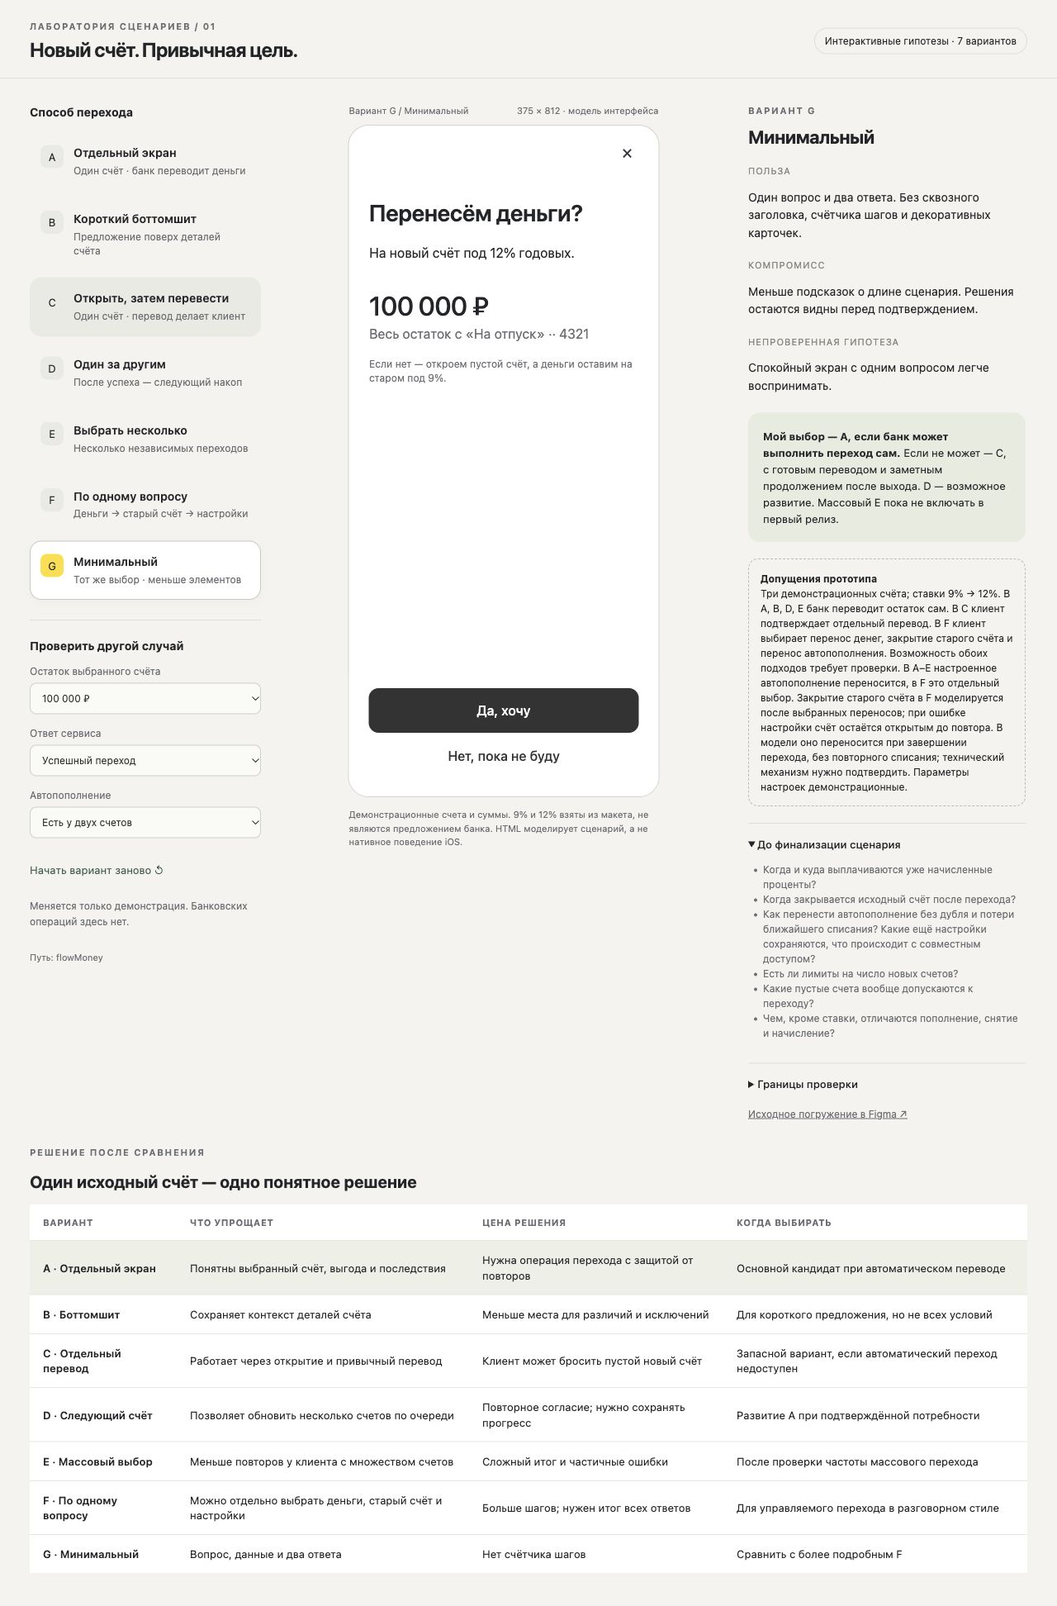
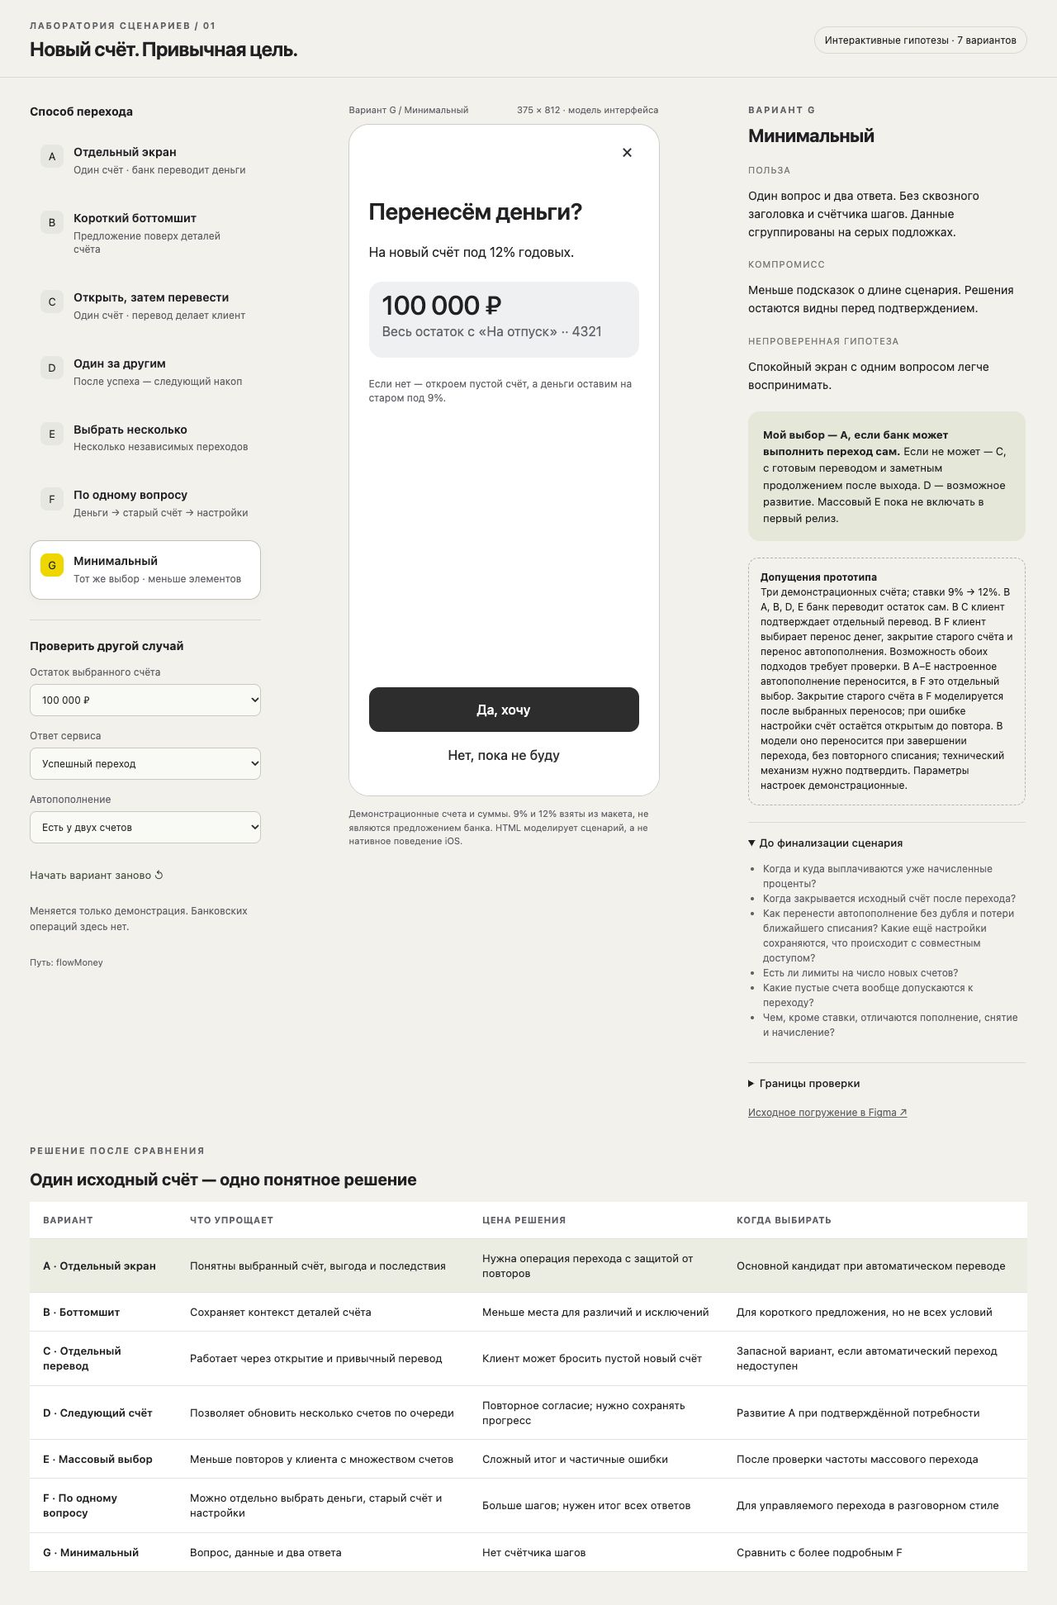
Вернуть серые подложки в минимальный вариант G

diff --git a/prototypes/account-migration/index.html b/prototypes/account-migration/index.html
@@ -8,7 +8,7 @@
 @media(max-width:1100px){.layout{gap:24px;grid-template-columns:240px 1fr}.review{grid-column:1/-1;display:grid;grid-template-columns:1fr 1fr;gap:24px}.review .review-main{grid-column:auto}header.lab{padding:20px 24px}.layout{padding:24px}.comparison{padding:0 24px}}
 @media(max-width:680px){header.lab{padding:18px 16px}header h1{font-size:19px}.badge{display:none}.layout{display:flex;flex-direction:column;padding:20px 0;gap:22px}.sidebar{padding:0 16px}.variants{grid-template-columns:repeat(7,1fr);gap:6px}.variant{padding:9px;display:block}.variant .letter{margin:0 auto}.variant strong,.variant small{display:none}.controls{margin-top:12px;padding-top:10px;display:grid;grid-template-columns:1fr 1fr;gap:12px}.controls h2,.controls .note{display:none}.control{margin:0}.controls>.text-button{grid-column:1/-1;padding:0}.review{display:block;padding:0 20px}.phone{max-width:100vw;border-radius:24px;width:min(375px,100vw)}.stage-label,.preview-bottom{width:calc(100% - 32px);max-width:375px}.comparison{padding:0 16px}.stage{gap:0}.trail{display:none}}
 .conversation .card{border-radius:16px;padding:16px}.conversation h1{font-size:30px;line-height:34px}.conversation p{font-size:17px;line-height:24px}.conversation .fine{font-size:13px!important;line-height:18px!important}.conversation .row b{text-align:left;max-width:100%}.conversation .small-link{padding-bottom:0}.conversation-step{font-size:13px;color:var(--muted);margin:6px 0 18px}.conversation-summary{margin:12px 0}.conversation-summary h2{margin:0 0 8px;font-size:17px}.conversation-summary p{margin:0;font-size:15px;line-height:21px}
-.phone.minimal{border-radius:24px;box-shadow:0 0 0 1px #d3d4d1}.minimal .nav{height:64px;padding:12px 16px}.minimal .nav button{width:44px;padding:0;font-size:22px}.minimal .nav>span{display:none}.minimal .scroll{padding:24px 24px 28px}.minimal .scroll h1{font-size:28px;line-height:34px;letter-spacing:-.5px;font-weight:600;margin:0 0 20px}.minimal .scroll p{font-size:16px;line-height:24px}.minimal .minimal-amount{font-size:32px!important;font-weight:500;letter-spacing:-.7px;margin:40px 0 6px}.minimal .minimal-data{margin:32px 0}.minimal .minimal-data p{margin:4px 0}.minimal .footer{border:0;padding:16px 24px 24px}.minimal .primary{border-radius:12px;font-weight:500}.minimal .secondary-button{font-size:16px}.minimal .conversation-summary{background:none;border-radius:0;border-bottom:1px solid #e8e8e8;padding:18px 0;margin:0}.minimal .conversation-summary h2{font-size:14px;font-weight:400;color:var(--muted);margin:0 0 6px}.minimal .conversation-summary p{font-size:16px;line-height:23px}.minimal .small-link{font-size:14px;padding-top:8px}.minimal .done-icon,.minimal .spinner{display:none}.minimal .processing{padding-top:80px}
+.phone.minimal{border-radius:24px;box-shadow:0 0 0 1px #d3d4d1}.minimal .nav{height:64px;padding:12px 16px}.minimal .nav button{width:44px;padding:0;font-size:22px}.minimal .nav>span{display:none}.minimal .scroll{padding:24px 24px 28px}.minimal .scroll h1{font-size:28px;line-height:34px;letter-spacing:-.5px;font-weight:600;margin:0 0 20px}.minimal .scroll p{font-size:16px;line-height:24px}.minimal .minimal-amount{font-size:32px!important;font-weight:500;letter-spacing:-.7px;margin:40px 0 6px}.minimal .minimal-data{margin:24px 0;padding:16px;border-radius:16px}.minimal .minimal-data .minimal-amount{margin:0 0 8px}.minimal .minimal-data p{margin:4px 0}.minimal .footer{border:0;padding:16px 24px 24px}.minimal .primary{border-radius:12px;font-weight:500}.minimal .secondary-button{font-size:16px}.minimal .conversation-summary{background:var(--surface);border-radius:16px;border:0;padding:16px;margin:12px 0}.minimal .conversation-summary h2{font-size:14px;font-weight:400;color:var(--muted);margin:0 0 6px}.minimal .conversation-summary p{font-size:16px;line-height:23px}.minimal .small-link{font-size:14px;padding-top:8px}.minimal .done-icon,.minimal .spinner{display:none}.minimal .processing{padding-top:80px}
 </style>
 <header class="lab"><div><div class="eyebrow">Лаборатория сценариев / 01</div><h1>Новый счёт. Привычная цель.</h1></div><span class="badge">Интерактивные гипотезы · 7 вариантов</span></header>
 <main class="layout">
@@ -17,7 +17,7 @@
 <aside class="review" id="review"></aside>
 </main>
 <section class="comparison"><div class="eyebrow">Решение после сравнения</div><h2>Один исходный счёт — одно понятное решение</h2><div class="table-wrap"><table><thead><tr><th>Вариант</th><th>Что упрощает</th><th>Цена решения</th><th>Когда выбирать</th></tr></thead><tbody><tr class="selected"><td>A · Отдельный экран</td><td>Понятны выбранный счёт, выгода и последствия</td><td>Нужна операция перехода с защитой от повторов</td><td>Основной кандидат при автоматическом переводе</td></tr><tr><td>B · Боттомшит</td><td>Сохраняет контекст деталей счёта</td><td>Меньше места для различий и исключений</td><td>Для короткого предложения, но не всех условий</td></tr><tr><td>C · Отдельный перевод</td><td>Работает через открытие и привычный перевод</td><td>Клиент может бросить пустой новый счёт</td><td>Запасной вариант, если автоматический переход недоступен</td></tr><tr><td>D · Следующий счёт</td><td>Позволяет обновить несколько счетов по очереди</td><td>Повторное согласие; нужно сохранять прогресс</td><td>Развитие A при подтверждённой потребности</td></tr><tr><td>E · Массовый выбор</td><td>Меньше повторов у клиента с множеством счетов</td><td>Сложный итог и частичные ошибки</td><td>После проверки частоты массового перехода</td></tr><tr><td>F · По одному вопросу</td><td>Можно отдельно выбрать деньги, старый счёт и настройки</td><td>Больше шагов; нужен итог всех ответов</td><td>Для управляемого перехода в разговорном стиле</td></tr><tr><td>G · Минимальный</td><td>Вопрос, данные и два ответа</td><td>Нет счётчика шагов</td><td>Сравнить с более подробным F</td></tr></tbody></table></div></section>
-<script src="conversation.js?v=minimal-g-1"></script>
+<script src="conversation.js?v=minimal-g-2"></script>
 <script>
 'use strict';
 const variants=[
@@ -27,7 +27,7 @@ const variants=[
  {id:'D',name:'Один за другим',sub:'После успеха — следующий накоп',benefit:'Каждый переход остаётся отдельным и понятным. После успеха можно выбрать следующий накоп без возвращения на главную.',cost:'Согласие повторяется для каждого счёта. Нужны сохранение прогресса и исключение уже переведённых накопов.',hypothesis:'После первого успешного перехода клиент готов продолжить и ценит предложение следующего счёта.'},
  {id:'E',name:'Выбрать несколько',sub:'Несколько независимых переходов',benefit:'Снижает число повторов, если клиент действительно хочет обновить сразу много счетов. Деньги не объединяются.',cost:'Нужны итог для каждого счёта, обработка частичного успеха и ясное согласие на несколько новых продуктов.',hypothesis:'У достаточно большой доли клиентов есть несколько активных накопов и намерение перевести их одновременно.'},
  {id:'F',name:'По одному вопросу',sub:'Деньги → старый счёт → настройки',benefit:'Каждое решение отдельно: перенос денег, закрытие старого счёта и сохранение автопополнения. Перед действием можно проверить и изменить ответы.',cost:'Шагов больше. Важно сохранять ответы и ясно показывать, где останутся деньги и настройки.',hypothesis:'Разговорные вопросы помогают осознанно выбрать действия и не перегружают человека всеми настройками сразу.'},
- {id:'G',name:'Минимальный',sub:'Тот же выбор · меньше элементов',benefit:'Один вопрос и два ответа. Без сквозного заголовка, счётчика шагов и декоративных карточек.',cost:'Меньше подсказок о длине сценария. Решения остаются видны перед подтверждением.',hypothesis:'Спокойный экран с одним вопросом легче воспринимать.'}
+ {id:'G',name:'Минимальный',sub:'Тот же выбор · меньше элементов',benefit:'Один вопрос и два ответа. Без сквозного заголовка и счётчика шагов. Данные сгруппированы на серых подложках.',cost:'Меньше подсказок о длине сценария. Решения остаются видны перед подтверждением.',hypothesis:'Спокойный экран с одним вопросом легче воспринимать.'}
 ];
 const seed=[{id:'vacation',name:'На отпуск',tail:'4321',newTail:'6401',amount:100000,autopay:{amount:5000,schedule:'Каждого 10-го числа',source:'Карта ·· 1122'}},{id:'reserve',name:'Подушка',tail:'8765',newTail:'6402',amount:250000,autopay:{amount:10000,schedule:'Каждого 15-го числа',source:'Карта ·· 3344'}},{id:'repair',name:'На ремонт',tail:'1098',newTail:'6403',amount:50000}];
 let v=['F','G'].includes(new URLSearchParams(location.search).get('variant'))?new URLSearchParams(location.search).get('variant'):'A',step='detail',current='vacation',selected=new Set(),done=new Set(),opened=new Set(),settingsFailed=new Set(),lastBatch=[],consent=false,history=[],timer=null,returnStep='consent',progressKind='auto';

diff --git a/prototypes/account-migration/conversation.js b/prototypes/account-migration/conversation.js
@@ -79,14 +79,14 @@ function minimalNav(back) {
 }
 function minimalDetail() {
   const a=account();
-  return `<div class="scroll"><h1 tabindex="-1">${a.name}</h1><p class="secondary">Накопительный счёт ·· ${a.tail}</p><p class="minimal-amount">${money(a.amount)}</p><p class="secondary">9% годовых</p></div><div class="footer">${button('Перейти на 12%','start')}</div>`;
+  return `<div class="scroll"><h1 tabindex="-1">${a.name}</h1><p class="secondary">Накопительный счёт ·· ${a.tail}</p><div class="card minimal-data"><p class="minimal-amount">${money(a.amount)}</p><p class="secondary">9% годовых</p></div></div><div class="footer">${button('Перейти на 12%','start')}</div>`;
 }
 function minimalConversationView() {
   const a=account(),d=conversationAnswers();
   let content='';
-  if(step==='flowMoney')content=`<h1 tabindex="-1">Перенесём деньги?</h1><p>На новый счёт под 12% годовых.</p><p class="minimal-amount">${money(a.amount)}</p><p class="secondary">Весь остаток с «${a.name}» ·· ${a.tail}</p><p class="fine">Если нет — откроем пустой счёт, а деньги оставим на старом под 9%.</p>`;
-  if(step==='flowClose')content=`<h1 tabindex="-1">Старый счёт закроем?</h1><p>«${a.name}» ·· ${a.tail}</p><p class="secondary">${a.amount===0?'На нём сейчас 0 ₽.':'После переноса на нём останется 0 ₽.'}</p>`;
-  if(step==='flowSettings')content=`<h1 tabindex="-1">Перенесём автопополнение?</h1><div class="minimal-data"><p>${money(a.autopay.amount)} · ${a.autopay.schedule.toLowerCase()}</p><p class="secondary">${a.autopay.source}</p></div><p class="fine">${d.close==='yes'?'Если нет — отключим при закрытии старого счёта.':'Если нет — оставим на старом счёте.'}</p>`;
+  if(step==='flowMoney')content=`<h1 tabindex="-1">Перенесём деньги?</h1><p>На новый счёт под 12% годовых.</p><div class="card minimal-data"><p class="minimal-amount">${money(a.amount)}</p><p class="secondary">Весь остаток с «${a.name}» ·· ${a.tail}</p></div><p class="fine">Если нет — откроем пустой счёт, а деньги оставим на старом под 9%.</p>`;
+  if(step==='flowClose')content=`<h1 tabindex="-1">Старый счёт закроем?</h1><div class="card minimal-data"><p>«${a.name}» ·· ${a.tail}</p><p class="secondary">${a.amount===0?'На нём сейчас 0 ₽.':'После переноса на нём останется 0 ₽.'}</p></div>`;
+  if(step==='flowSettings')content=`<h1 tabindex="-1">Перенесём автопополнение?</h1><div class="card minimal-data"><p>${money(a.autopay.amount)} · ${a.autopay.schedule.toLowerCase()}</p><p class="secondary">${a.autopay.source}</p></div><p class="fine">${d.close==='yes'?'Если нет — отключим при закрытии старого счёта.':'Если нет — оставим на старом счёте.'}</p>`;
   if(step==='flowReview')content=`<h1 tabindex="-1">Проверим?</h1>${conversationSummary(a,d)}<button class="small-link" data-action="documents">Тариф и документы</button><label class="check"><input id="consent" type="checkbox" ${consent?'checked':''}><span>Согласен с условиями открытия нового счёта и выбранными выше действиями</span></label>`;
   return `<div class="scroll">${content}</div><div class="footer">${step==='flowReview'?button('Подтвердить','submit',false,!consent||!conversationReady()):conversationChoices()}</div>`;
 }

diff --git a/prototypes/account-migration/Проверка и выбор.md b/prototypes/account-migration/Проверка и выбор.md
@@ -78,6 +78,6 @@ D рассматривать как развитие A. E не включать 
 
 ## Дополнение: G — минимальный вариант
 
-Отдельное представление того же разговорного сценария F. В вопросах оставлены заголовок, данные для решения и два ответа внизу. Убраны сквозное название, номера шагов, статус-бар и декоративные подложки. С первого вопроса можно выйти крестиком, с последующих — также вернуться стрелкой. Итог сохраняет выбранные действия, редактирование и согласие.
+Отдельное представление того же разговорного сценария F. В вопросах оставлены заголовок, данные для решения и два ответа внизу. Убраны сквозное название, номера шагов, статус-бар. Серые подложки группируют данные счёта и настройки. С первого вопроса можно выйти крестиком, с последующих — также вернуться стрелкой. Итог сохраняет выбранные действия, редактирование и согласие.
 
 Проверены общая логика A–F и отдельные пути G: перенос и отказ, сохранение и закрытие старого счёта, нулевой остаток без настроек. В браузере пройден G до подтверждения и результата.

diff --git a/README.md b/README.md
@@ -16,4 +16,4 @@
 
 Проверка логики без зависимостей: `node prototypes/account-migration/check-conversation.cjs`.
 
-Вариант G: [минимальный](https://ohnoazamat92.github.io/savings-account-migration-prototype/prototypes/account-migration/?variant=G&v=minimal-g-1). Сразу открывает первый вопрос. Без сквозного заголовка, номеров шагов, имитации статус-бара и подложек карточек; логика общая с F.
+Вариант G: [минимальный](https://ohnoazamat92.github.io/savings-account-migration-prototype/prototypes/account-migration/?variant=G&v=minimal-g-2). Сразу открывает первый вопрос. Без сквозного заголовка, номеров шагов, имитации статус-бара; данные собраны на серых подложках, логика общая с F.
